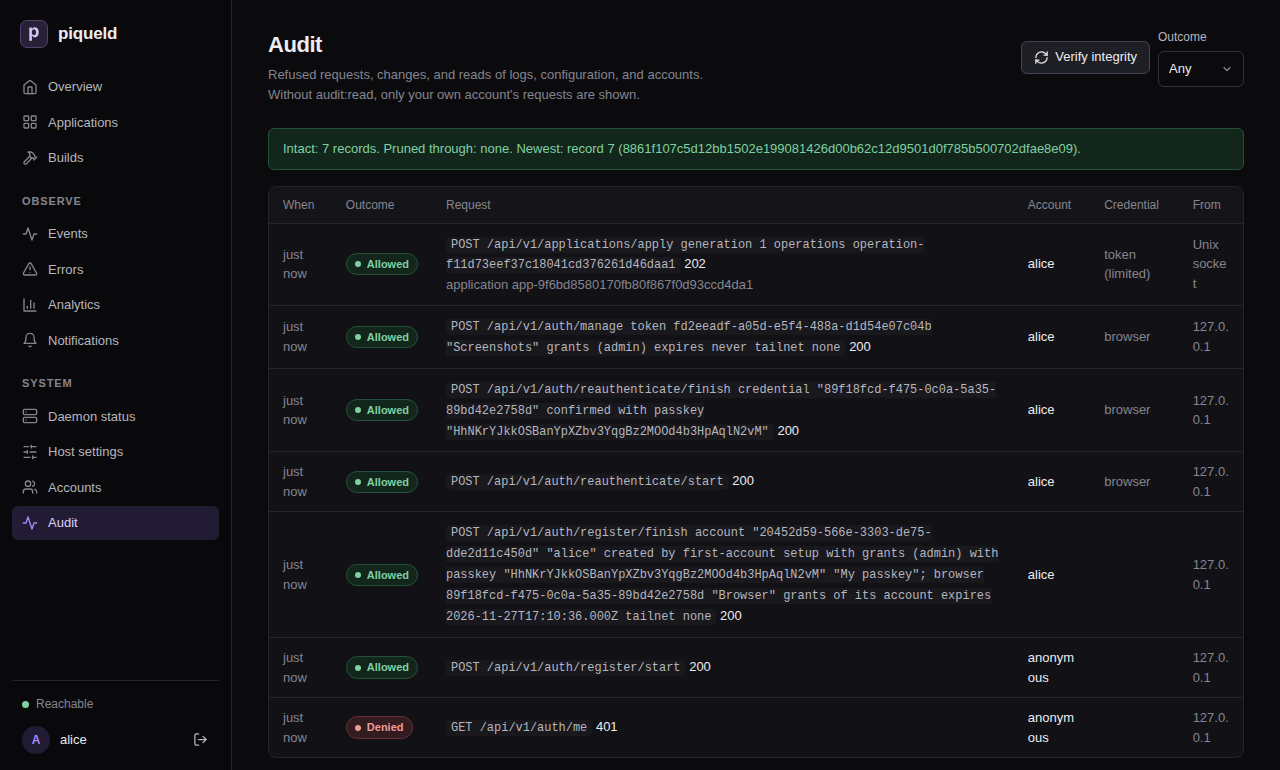
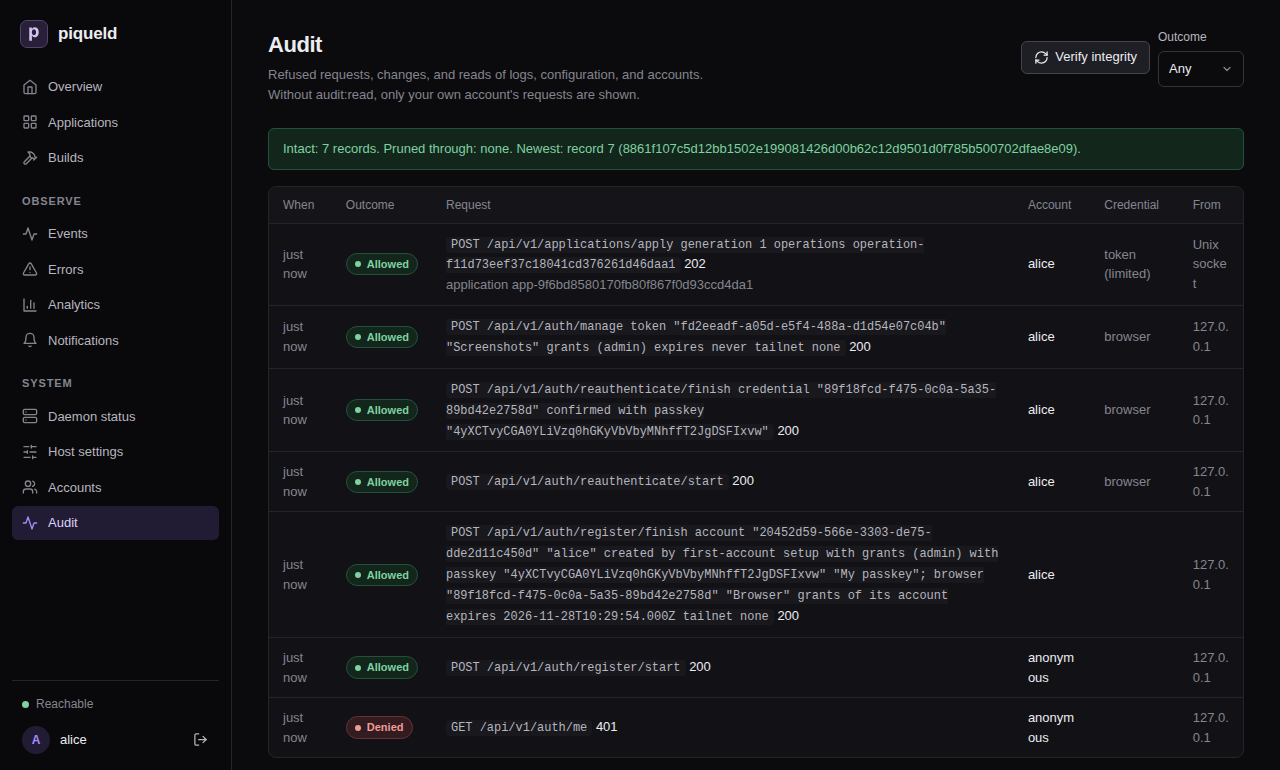
fix(auth): name an enrolled account as stored when its link is redeemed
The enrollment record read the username the passkey ceremony started
with; it now reads the account's name inside the redeeming transaction.
Link IDs in redemption records are quoted like the others.

Changed region(s): [[0.3438, 0.7169, 0.7812, 0.8104], [0.3438, 0.5299, 0.5938, 0.5922], [0.5312, 0.4052, 0.75, 0.4364]]

diff --git a/crates/piqueld-store/src/auth/tests.rs b/crates/piqueld-store/src/auth/tests.rs
@@ -515,7 +515,7 @@ async fn registrations_record_what_they_did() {
         .await
         .expect("the trail is read");
     let session =
-        |id| format!("browser {id} \"{id}\" grants of its account expires never tailnet none");
+        |id| format!("browser \"{id}\" \"{id}\" grants of its account expires never tailnet none");
     let (as_alice, as_bob) = (Some("alice".to_owned()), Some("bob".to_owned()));
     assert_eq!(
         rows,
@@ -530,7 +530,7 @@ async fn registrations_record_what_they_did() {
             ),
             (
                 format!(
-                    "{route} account \"bob\" \"bob\" created by invitation invite with grants \
+                    "{route} account \"bob\" \"bob\" created by invitation \"invite\" with grants \
                     (none) with passkey \"b-key\" \"b-key\"; {}",
                     session("b")
                 ),
@@ -542,6 +542,46 @@ async fn registrations_record_what_they_did() {
             ),
         ]
     );
+}
+
+/// Redeeming an enrollment link records its account under the name it has
+/// when redeemed, not the one the passkey ceremony started with.
+#[tokio::test]
+async fn enrollments_record_their_account_as_named_when_redeemed() {
+    let (_dir, store) = Store::temporary().await;
+    let alice = store.admin_with_passkey("alice").await;
+    store.seed_auth_user(&user("bob"), &Grants::default()).await;
+    let link = NewInvitation {
+        id: "enroll".into(),
+        secret_hash: "enroll".into(),
+        expires_at: now_secs() + 3600,
+    };
+    let enrolled = store.create_enrollment(alice, &link, "bob").await;
+    enrolled.expect("alice issues an enrollment link");
+    let route = "POST /api/v1/auth/register/finish";
+    let request = crate::testing::audit_request(route);
+    let started = User {
+        username: "robert".into(),
+        ..user("bob")
+    };
+    let owner = PasskeyOwner::Redeem {
+        user: &started,
+        invitation_hash: "enroll",
+        session: credential("b", CredentialKind::Browser),
+    };
+    let passkey = NewPasskey {
+        id: "b-key",
+        name: "b-key",
+        credential: "{}",
+    };
+    let redeemed = store.add_passkey(Some(&request), owner, passkey).await;
+    assert!(redeemed.expect("bob redeems the link"));
+    let actions = store.audit_actions().await;
+    let [action] = actions.as_slice() else {
+        panic!("one record expected: {actions:?}");
+    };
+    let enrolled = format!("{route} account \"bob\" \"bob\" enrolled by \"enroll\" with ");
+    assert!(action.starts_with(&enrolled), "{action}");
 }
 
 /// Issuing a recovery or host operator sign-in link records the link and

diff --git a/crates/piqueld-store/src/auth/mod.rs b/crates/piqueld-store/src/auth/mod.rs
@@ -302,10 +302,9 @@ impl Redeemed {
         }
     }
 
-    /// What redeeming it for `user` did, as its audit record names it,
-    /// never the secret it consumed.
-    fn describe(&self, user: &User) -> String {
-        let (id, username) = (&user.id, &user.username);
+    /// What redeeming it for the account `id`, now named `username`, did,
+    /// as its audit record names it, never the secret it consumed.
+    fn describe(&self, id: &str, username: &str) -> String {
         match self {
             Self::Root(how) => {
                 let admin = Grants::admin();
@@ -315,10 +314,10 @@ impl Redeemed {
                 id: invitation,
                 grants,
             } => format!(
-                "account {id:?} {username:?} created by invitation {invitation} with grants ({grants})"
+                "account {id:?} {username:?} created by invitation {invitation:?} with grants ({grants})"
             ),
             Self::Enrollment(enrollment) => {
-                format!("account {id:?} {username:?} enrolled by {enrollment}")
+                format!("account {id:?} {username:?} enrolled by {enrollment:?}")
             }
         }
     }
@@ -730,11 +729,17 @@ impl Store {
                     .await?;
                 let issuer = Issued::Passkey(passkey.id);
                 session.insert(&mut tx, &user.id, Some(issuer)).await?;
-                let (account, opened) = (redeemed.describe(user), session.describe(None));
-                let change = format!("{account} with {added}; {opened}");
+                // An enrolled account keeps its stored name, whatever the
+                // ceremony started with.
+                let username = match redeemed {
+                    Redeemed::Enrollment(_) => Self::username_on(&mut tx, &user.id).await?,
+                    Redeemed::Root(_) | Redeemed::Invitation { .. } => user.username.clone(),
+                };
+                let account = redeemed.describe(&user.id, &username);
+                let change = format!("{account} with {added}; {}", session.describe(None));
                 let who = AuditPrincipal::Account {
                     id: &user.id,
-                    username: &user.username,
+                    username: &username,
                 };
                 let author = Author { actor: (), request };
                 author.commit_signed_in(tx, who, &change).await?;
